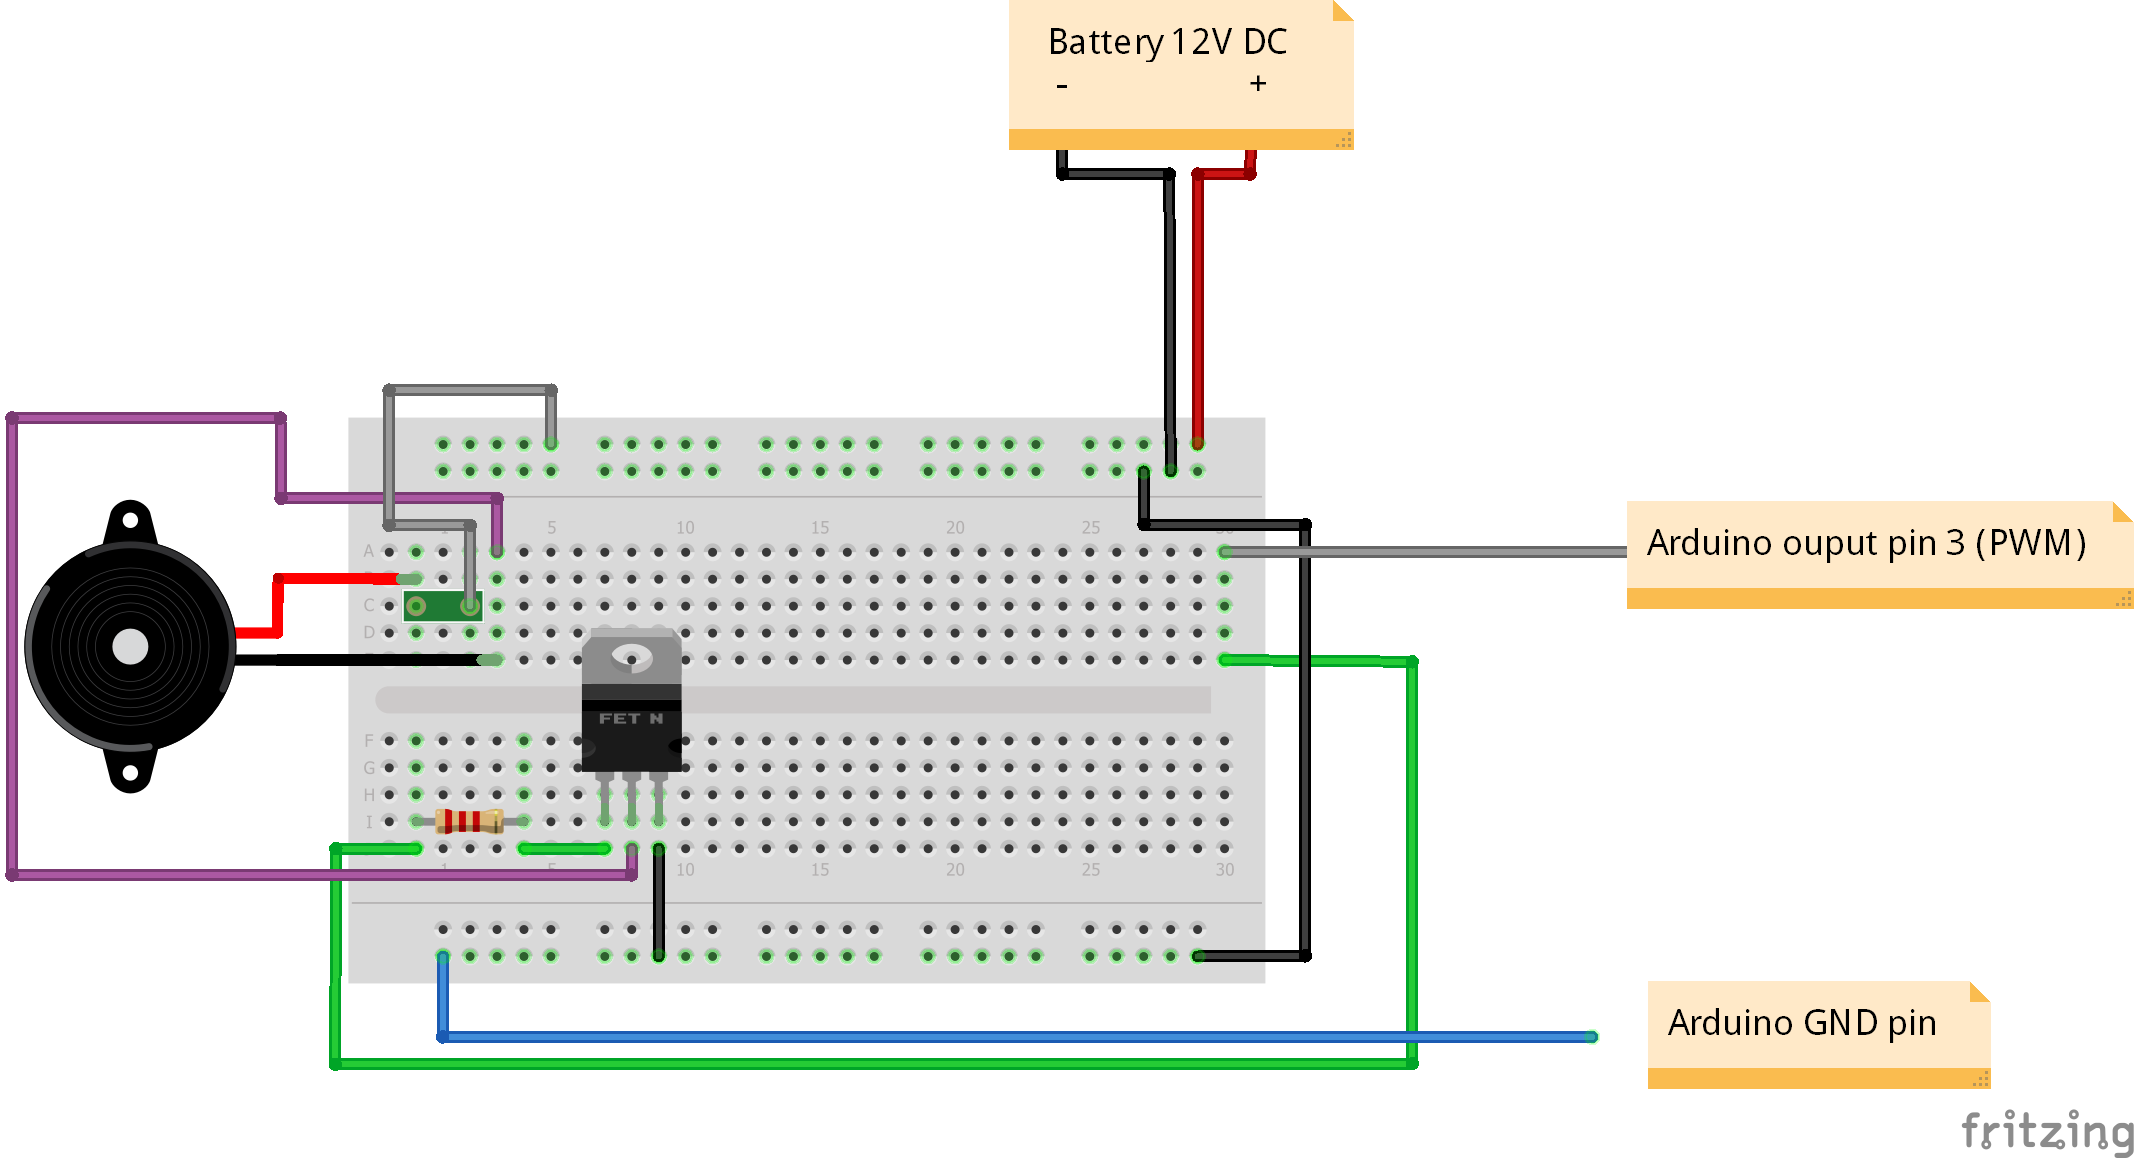
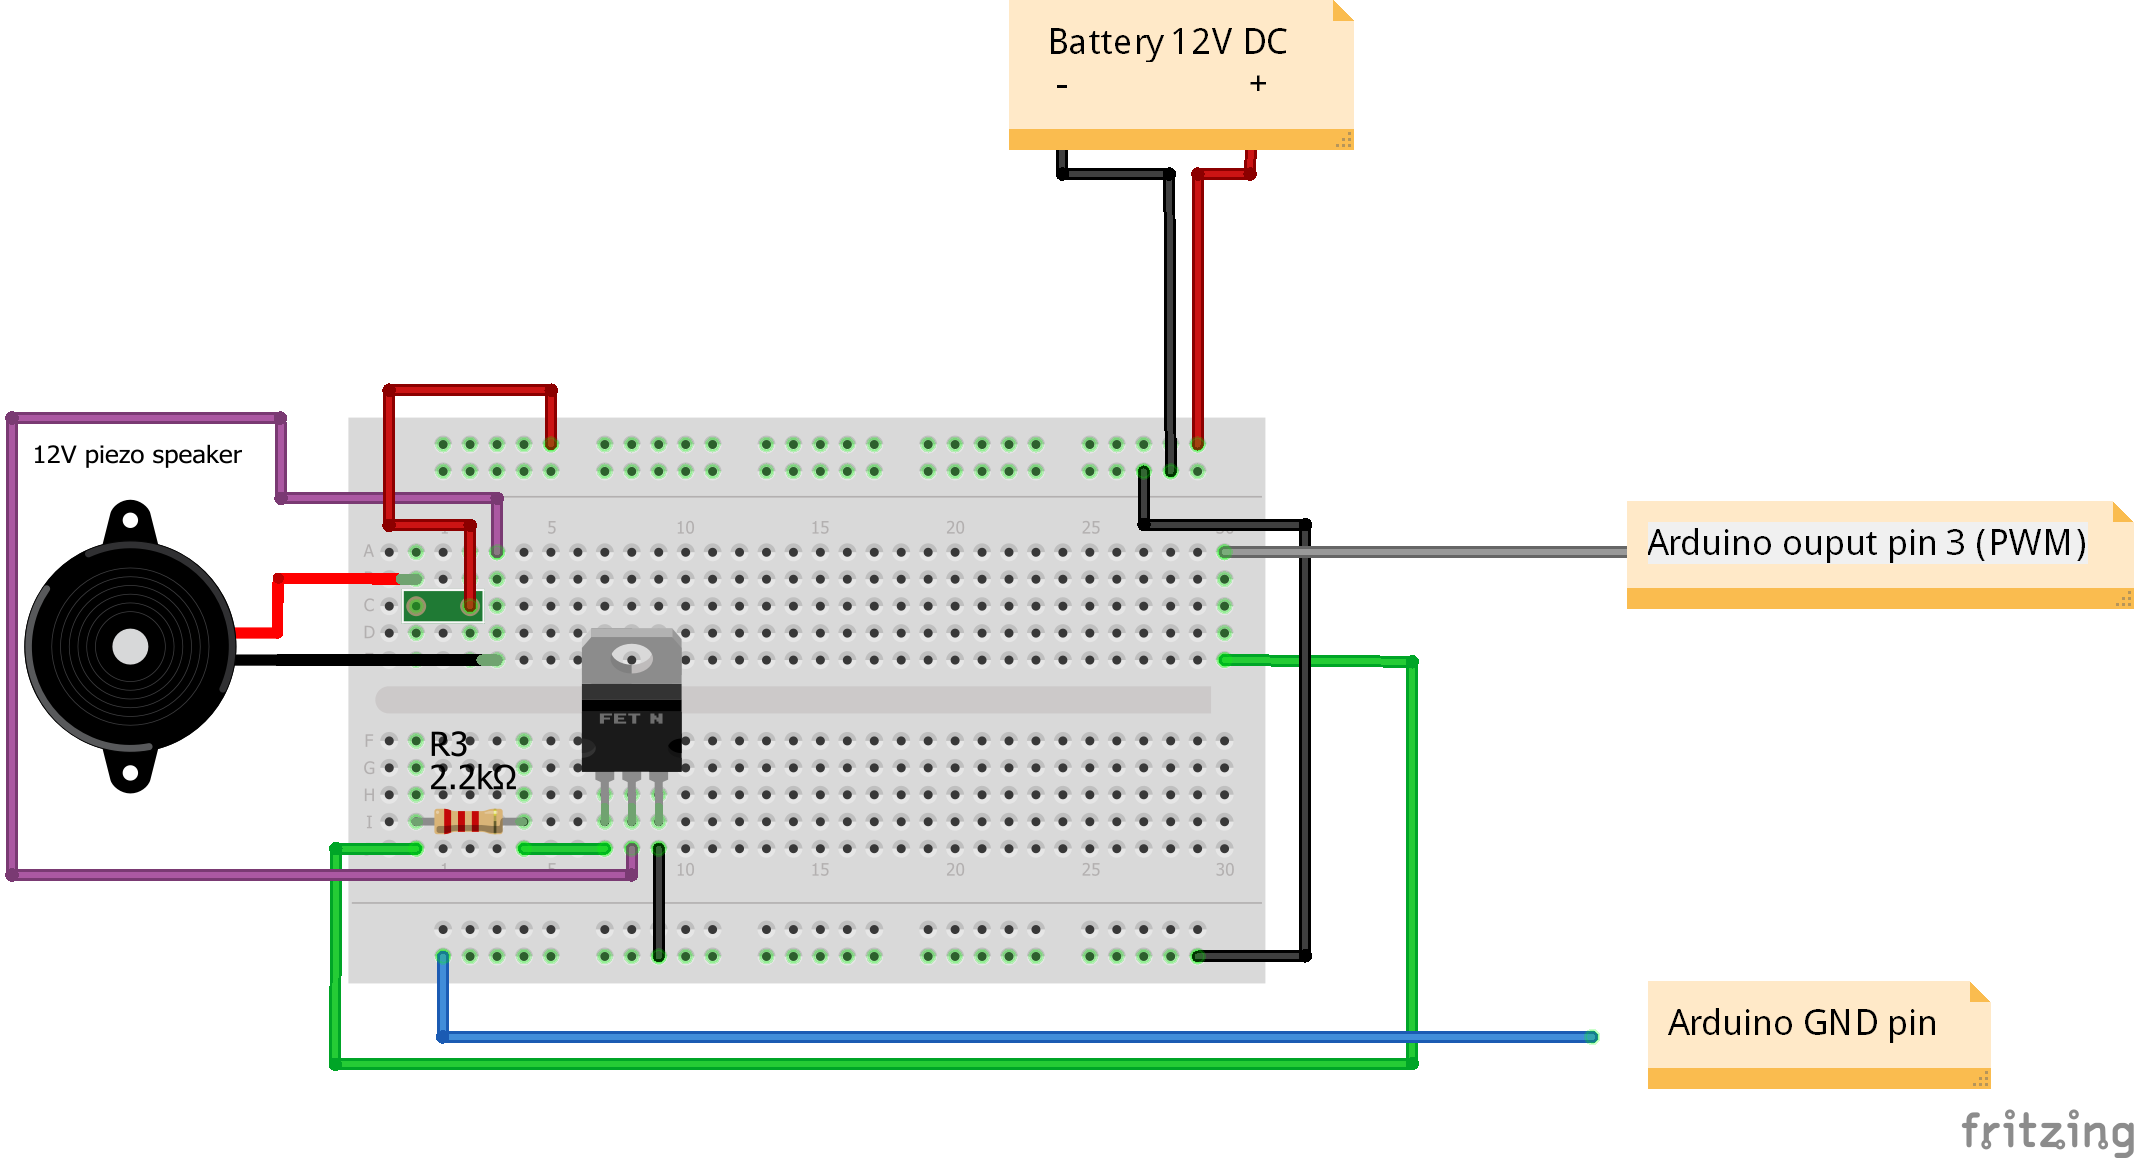
hw - voltage divider scheme

diff --git a/README.md b/README.md
@@ -18,7 +18,7 @@ Every aspect of this project is thoroughly explained in this documentation.
 * Breadboard (using a smaller one)
 * Wires
 * Transistor (N MOSFET)
-* Rezistors: 20k, 10k, 2.2k
+* Resistors: 20k, 10k, 2.2k
 * Buzzer
 * Power panel connectors
 * Polymer fuses: one >=13V >=7A (main power), one >=13V >=1A (buzzer fuse :) )
@@ -70,14 +70,14 @@ Vin = 15V  => 15V is the maximum input volate to the voltage divider.
 
 You don't have to do the math by hand. Instead, use [a calculator for voltage divider](http://www.ohmslawcalculator.com/voltage-divider-calculator) to do the job for you. You can customize there everything you need.
 
-![Picture of a voltage divider](http://www.ohmslawcalculator.com/static/img/voltage-divider-calculator-2.png)
+![Voltage divider scheme](https://github.com/kyberdrb/Arduino_UPS/raw/master/hw_doc/Voltage_divider_bb.png)
 
 #### Buzzer
-A N-channel MOSFET was needed to drive a buzzer (piezo speaker), which was rated for 12V. Pin #3 on Arduino was outputting PWM signal to the MOSFET's gate. The frequency of the PWM signal was transfered to the speaker, which then produced tone at that frequency.
+A N-channel MOSFET was needed to drive a buzzer (piezo speaker), which was rated for 12V. Pin #3 on Arduino was outputting PWM signal to the MOSFET's gate through the 2.2k resistor. The frequency of the PWM signal was transfered to the speaker, which then produced tone at that frequency.
 
 ![Buzzer scheme](https://raw.githubusercontent.com/kyberdrb/Arduino_UPS/master/hw_doc/Buzzer_bb.png)
 
-The physical scheme ([Arduino_UPS.fzz](https://github.com/kyberdrb/Arduino_UPS/raw/master/hw_doc/Arduino_UPS.fzz) and [Buzzer.fzz](https://github.com/kyberdrb/Arduino_UPS/raw/master/hw_doc/Buzzer.fzz)) has been made with the help of **_Fritzing_**.
+The physical scheme ([Arduino_UPS.fzz](https://github.com/kyberdrb/Arduino_UPS/raw/master/hw_doc/Arduino_UPS.fzz), [Buzzer.fzz](https://github.com/kyberdrb/Arduino_UPS/raw/master/hw_doc/Buzzer.fzz) and [Voltage_divider.fzz](https://github.com/kyberdrb/Arduino_UPS/raw/master/hw_doc/Voltage_divider.fzz)) has been made with the help of **_Fritzing_**.
 
 # Software documentation
 ## Voltage measuring
